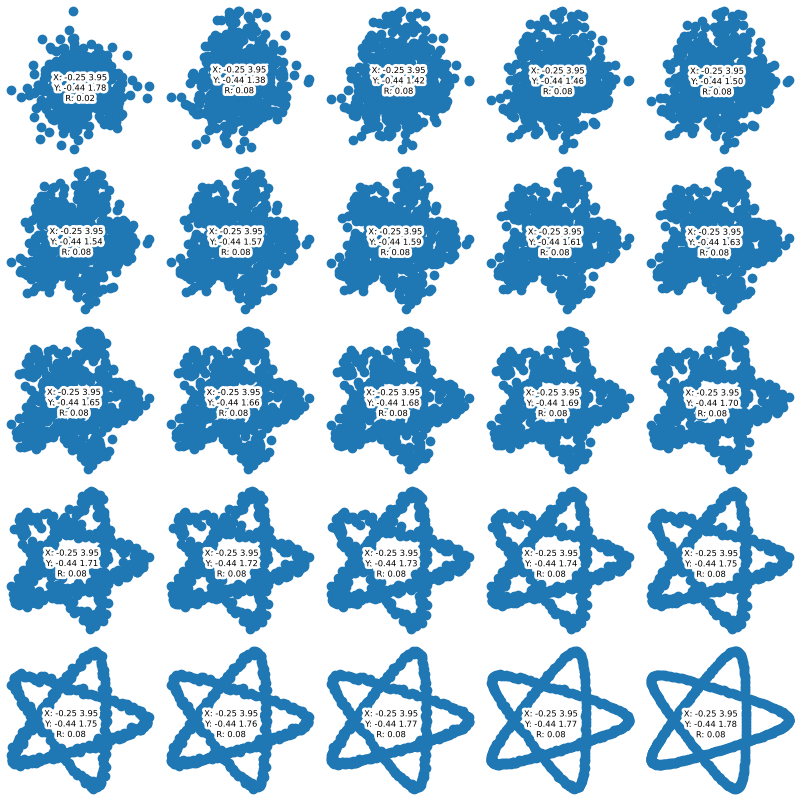
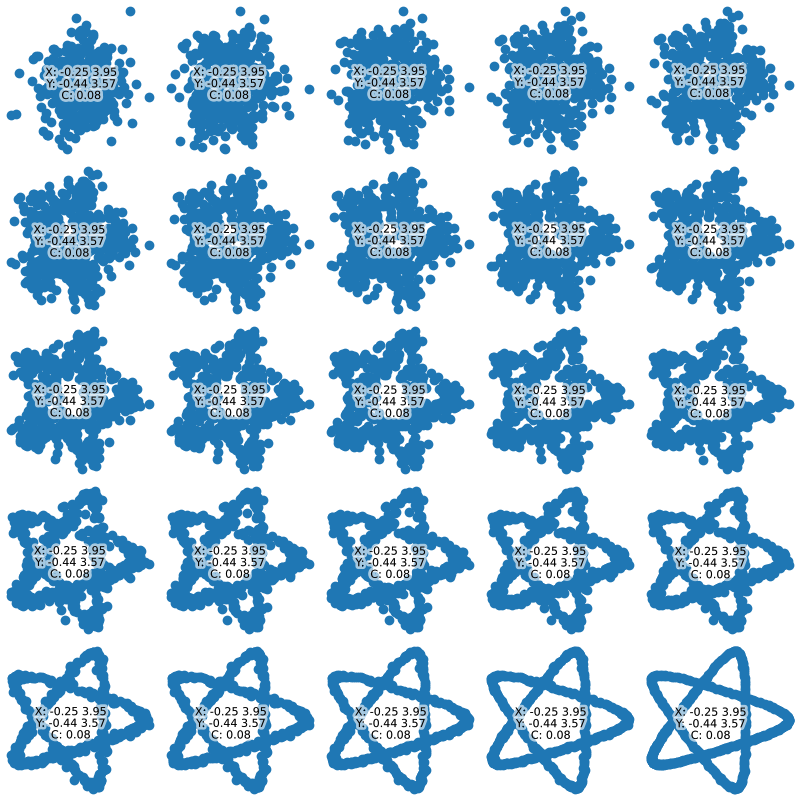
fix: fixed standardisation of y

diff --git a/fastdatamorph.py b/fastdatamorph.py
@@ -94,7 +94,9 @@ def correct_correlation(x, y, rho):
     r = rho/c
     D = 4*r**4*(c**2-1)**2-4*(1-r**2)*(c**2-1)*r**2
     a = r**2*(c**2-1)/(1-r**2)+math.sqrt(D)/2/(1-r**2)
-    ystar = y.mean()+y.std()*(a*c*xs+(1-a)*(ys-c*xs))
+    ys = (a*c*xs+(1-a)*(ys-c*xs))
+    ys /= ys.std()
+    ystar = y.mean()+y.std()*ys
     return ystar
 
 ysrc = correct_correlation(xsrc, ysrc, rho)
@@ -131,20 +133,24 @@ fig, axs = plt.subplots(ncols=5, nrows=5, \
                 layout="constrained")
 
 for iax, ax in enumerate(axs.flat):
-    u, v = xp[:, 1+iax], yp[:, iax]
+    # Plot points
+    u, v = xp[:, iax], yp[:, iax]
     ax.plot(u, v, "o")
 
+    # Compute stats
     um, vm = u.mean(), v.mean()
     us, vs = u.std(), v.std()
     rho = np.corrcoef(u, v)[0, 1]
+
+    # Show stats
     txt = f"X: {um:0.2f} {us:0.2f}\n"\
             +f"Y: {vm:0.2f} {vs:0.2f}\n"\
-            +f"R: {rho:0.2f}"
-
+            +f"C: {rho:0.2f}"
     ax.text(um, vm, txt, va="center", \
                 ha="center", \
-                fontsize=6, \
-                path_effects=[pe.withStroke(linewidth=4, foreground="w")])
+                fontsize=8, \
+                path_effects=[pe.withStroke(linewidth=4, alpha=0.6, foreground="w")])
+
     ax.axis("off")
 
 fp = froot / "results.png"
